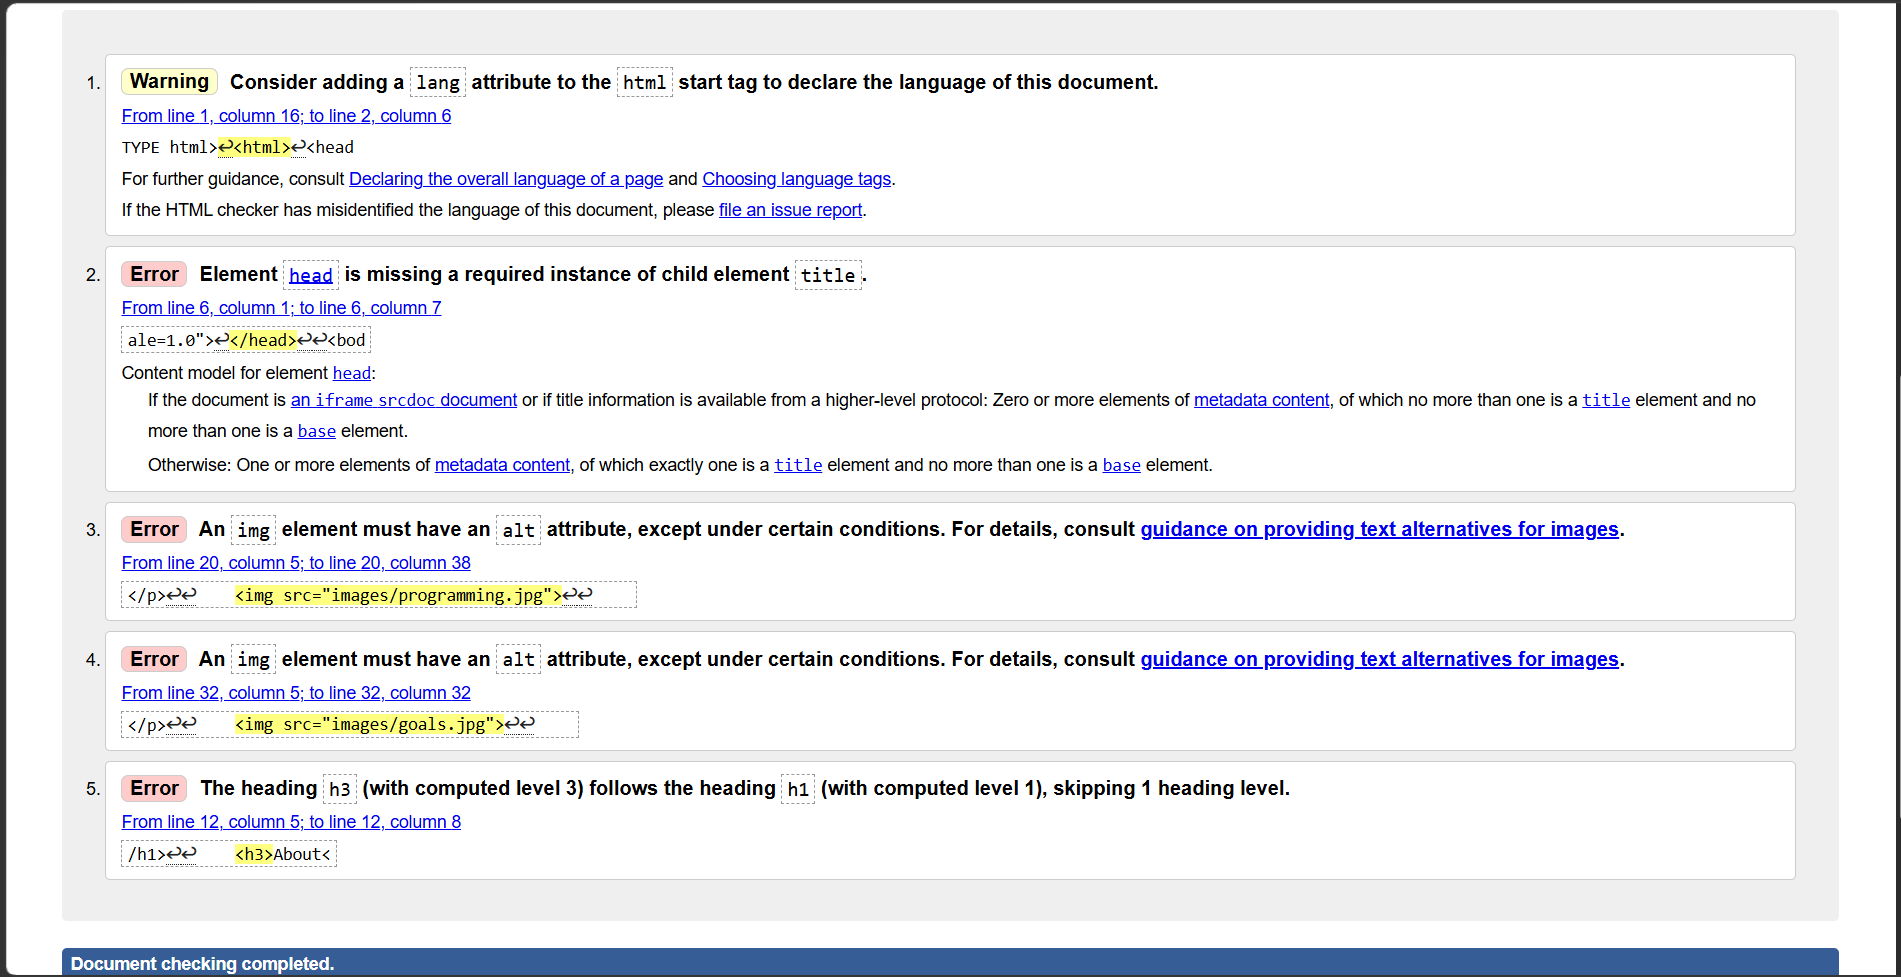
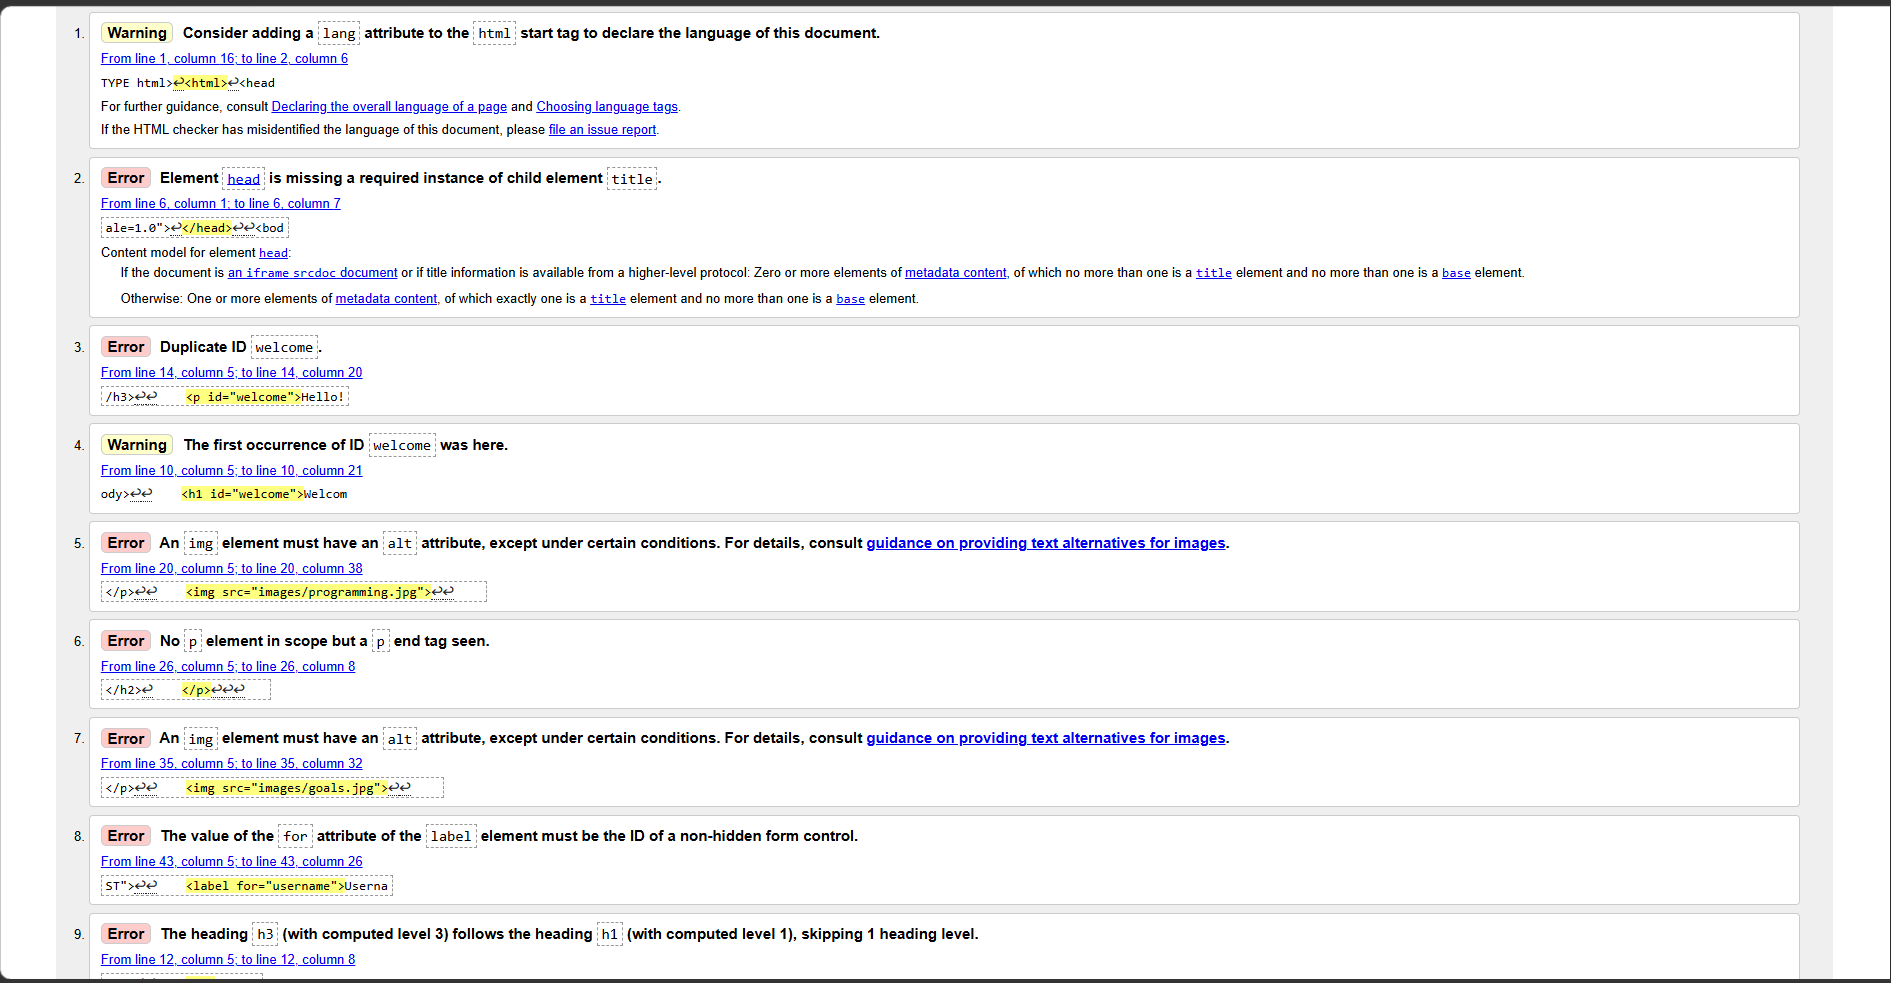
Add IDs to headings and update form fields in broken and fixed HTML pages

Changed region(s): [[0.0, 0.0, 1.0, 1.0]]

diff --git a/assignment-02/broken.html b/assignment-02/broken.html
@@ -7,11 +7,11 @@
 
 <body>
 
-    <h1>Welcome to the broken page</h1>
+    <h1 id="welcome">Welcome to the broken page</h1>
 
     <h3>About</h3>
 
-    <p>Hello! Welcome to the broken page. This page is the original version of the HTML project.
+    <p id="welcome">Hello! Welcome to the broken page. This page is the original version of the HTML project.
 
     <h2>Broken page</h2>
 
@@ -21,19 +21,34 @@
 
     <p>You can learn more about the broken page <a href="missing/broken.html">here</a>.</p>
 
-    <h2>HTML project</h2>
+    <p>
+        <h2>HTML project</h2>
+    </p>
+
 
     <p>This project demonstrates the importance of writing clean and valid HTML code.</p>
 
     <img src="images/project1.jpg" alt="My first project">
 
-    <p>Visit the <a href="pages/home.html">home page</a> to see more.</p>
+    <p>Visit the <a href="index.html">home page</a> to see more.</p>
 
     <img src="images/goals.jpg">
 
     <h2>Contact</h2>
 
     <p>If you want to contact me, you can send me an <a href="mailto:example@email.com">email</a>.</p>
+
+    <form action="submit.php" method="POST">
+
+    <label for="username">Username</label>
+    <input type="text" id="name">
+
+    <label for="user-email">Email</label>
+    <input type="email" id="user-email">
+
+    <button type="submit">Submit</button>
+
+</form>
 
     <p>Thank you for visiting my website.
 

diff --git a/assignment-02/fixed.html b/assignment-02/fixed.html
@@ -8,7 +8,7 @@
 
 <body>
 
-    <h1>Welcome to the fixed page</h1>
+    <h1 id="welcome">Welcome to the fixed page</h1>
 
     <h2>About</h2>
 
@@ -33,6 +33,18 @@
     <h2>Contact</h2>
 
     <p>If you want to contact me, you can send me an <a href="mailto:example@email.com">email</a>.</p>
+
+    <form action="submit.php" method="POST">
+
+    <label for="name">Username</label>
+    <input type="text" id="name">
+
+    <label for="user-email">Email</label>
+    <input type="email" id="user-email">
+
+    <button type="submit">Submit</button>
+
+</form>
 
     <p>Thank you for visiting my website.
 
